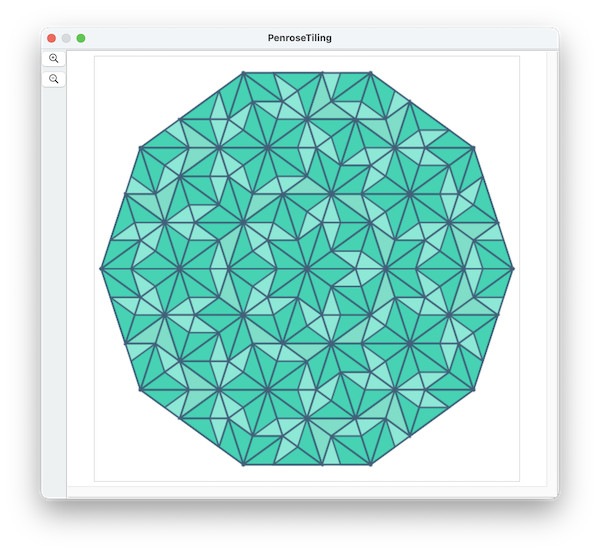
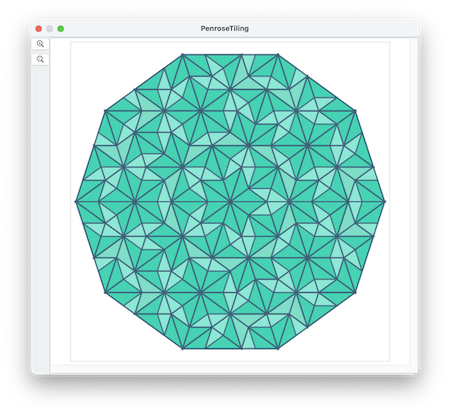
Pentabubble and paths

diff --git a/docs/Pentabubble.md b/docs/Pentabubble.md
@@ -1,0 +1,121 @@
+####  [Table of Contents](TableOfContents.md) 
+#### Containing topic: [All Examples](AllExamples.md) 
+
+##  A Five-anchored path shape
+
+In the [Pentastar Example](Pentastar.md)  we made five-pointed star by changing the order of the vertices of a pentagon.  In this example, we'll use a similar trick, but make a shape with a path.
+
+Here's the resulting shape:
+
+![image](../images/Pentabubble.png "A 'Pentabubble'")
+
+The script to generate this shape is below.  We'll walk through step by step:
+
+First we'll start by making a regular pentagon:
+
+```
+tell application "SinterPixels"
+	set pentabubbleDoc to make new document with properties {name:"Pentabubble"}
+	tell pentabubbleDoc
+		set myPentagon to make new polygon with properties {position:{0, 0}, vertex count:5, radius:100}
+```
+
+The five vertices of this pentagon are the same vertices we need to draw a star.  Let's extract the vertices like this -- note how we change the order of the vertices at this step by going 1,3,5,2,4:
+ 
+```
+	    tell myPentagon
+			set p1 to position of vertex 1  
+			set p2 to position of vertex 3  
+			set p3 to position of vertex 5  
+			set p4 to position of vertex 2  
+			set p5 to position of vertex 4  
+		end
+```
+ 
+Now, p1 thru p5 are the five points of a star.  We don't need the pentagon anymore, so let's delete it:
+ 
+```
+		delete myPentagon
+```
+
+now, lets define the a different slope for each anchor based on the positions of the adjacent points.  First, lets define a helper function, that given two points, returns a value for the slope:
+
+```
+to slopeFromPoints(p1, p2)
+	using terms from application "SinterPixels"
+		set dx to (x coordinate of p1) - (x coordinate of p2)
+		set dy to (y coordinate of p1) - (y coordinate of p2)
+		return {deltax:dx, deltay:dy}
+	end using terms from
+end slopeFromPoints
+```
+
+Using that helper, lets define the different slopes like this:
+
+```
+		set s1 to my slopeFromPoints(p5, p2)
+		set s2 to my slopeFromPoints(p1, p3)
+		set s3 to my slopeFromPoints(p2, p4)
+		set s4 to my slopeFromPoints(p3, p5)
+		set s5 to my slopeFromPoints(p4, p1)
+```
+
+So, for example, the first line defines the slope for anchor 1 based on the positions of points 5 and 2.  Now lets define the anchor data for each of our five anchors like this:
+
+```
+		set a1 to {position:p1, slope:s1}
+		set a2 to {position:p2, slope:s2}
+		set a3 to {position:p3, slope:s3}
+		set a4 to {position:p4, slope:s4}
+		set a5 to {position:p5, slope:s5}
+```
+
+And lastly, lets make a path using those five anchors.  We'll use a fill color that partly transparent so it is easy to see the line of the path
+
+
+```
+		set thePath to make new path with properties {anchor data:{a1, a2, a3, a4, a5}, position:{0, 0}, line width:5, color: {0.4, 0.2, 0.4}, fill color:{0.2, 0.2, 1.0, 0.3}}
+	end tell
+end tell
+```
+
+And we have our result, a path shape defined from 5 points.  Here's a complete script:
+
+```
+to slopeFromPoints(p1, p2)
+	using terms from application "SinterPixels"
+		set dx to (x coordinate of p1) - (x coordinate of p2)
+		set dy to (y coordinate of p1) - (y coordinate of p2)
+		return {deltax:dx, deltay:dy}
+	end using terms from
+end slopeFromPoints
+
+tell application "SinterPixels"
+	set pentabubbleDoc to make new document with properties {name:"Pentabubble"}
+	tell pentabubbleDoc
+		set myPentagon to make new polygon with properties {position:{0, 0}, vertex count:5, radius:100}
+		
+		set p1 to position of vertex 1 of myPentagon
+		set p2 to position of vertex 3 of myPentagon
+		set p3 to position of vertex 5 of myPentagon
+		set p4 to position of vertex 2 of myPentagon
+		set p5 to position of vertex 4 of myPentagon
+		delete myPentagon
+		set s1 to my slopeFromPoints(p5, p2)
+		set s2 to my slopeFromPoints(p1, p3)
+		set s3 to my slopeFromPoints(p2, p4)
+		set s4 to my slopeFromPoints(p3, p5)
+		set s5 to my slopeFromPoints(p4, p1)
+		set a1 to {position:p1, slope:s1}
+		set a2 to {position:p2, slope:s2}
+		set a3 to {position:p3, slope:s3}
+		set a4 to {position:p4, slope:s4}
+		set a5 to {position:p5, slope:s5}
+		set thePath to make new path with properties {anchor data:{a1, a2, a3, a4, a5}, position:{0, 0}, line width:5, color:{0.4, 0.2, 0.4}, fill color:{0.2, 0.2, 1.0, 0.3}}
+	end tell
+end tell
+
+```
+ 
+
+#### Containing topic: [All Examples](AllExamples.md) 

diff --git a/docs/SinterpixelsPaths.md b/docs/SinterpixelsPaths.md
@@ -1,0 +1,39 @@
+####  [Table of Contents](TableOfContents.md) 
+#### previous topic: [Shapes Part 3](SinterpixelsShapes3.md)  next topic:  [Polygons Part One](SinterpixelsPolygons1.md)
+
+## Circles
+
+Circles have a unique property not shared by other shapes.  They have a **radius**
+
+run the following script to see the effect of a changing radius
+
+```
+tell application "SinterPixels"
+	if not (exists document 1) then make new document
+	tell document 1
+		set c to make new circle
+		set originalRadius to radius of c
+		repeat with newR from originalRadius to 100
+			set the radius of c to newR
+		end repeat
+		repeat with newR from 100 to originalRadius by -1
+			set the radius of c to newR
+		end repeat
+	end tell
+end tell
+```
+
+Like all shapes, circles also have a property **line width**. This specifies how thick the perimeter should be:
+
+```
+tell application "SinterPixels"
+	if not (exists document 1) then make new document
+	tell document 1
+	    make new circle with properties {line width: 10, radius: 25, color: green, fill color: white }
+	end tell
+end tell
+```
+
+Note that the radius is measured to the middle of the perimeter line.  This means that a circle with a thicker line width will actually be larger on screen that a circle with a narrower one. 
+ 
+#### previous topic: [Shapes Part 3](SinterpixelsShapes3.md)  next topic:  [Polygons Part One](SinterpixelsPolygons1.md)

diff --git a/docs/AllExamples.md b/docs/AllExamples.md
@@ -29,5 +29,8 @@ Click on the images to go to the page with the example:
 
 [![Square Tiles](../images/TileMosaic.png "A tile mosaic")](SinterpixelsLayers.md)   
 
+[![Pentabubble](../images/Pentabubble.png "a shape defines by a five-anchor path")](Pentabubble.md)   
+
+
 
 ####  [Table of Contents](TableOfContents.md)   
